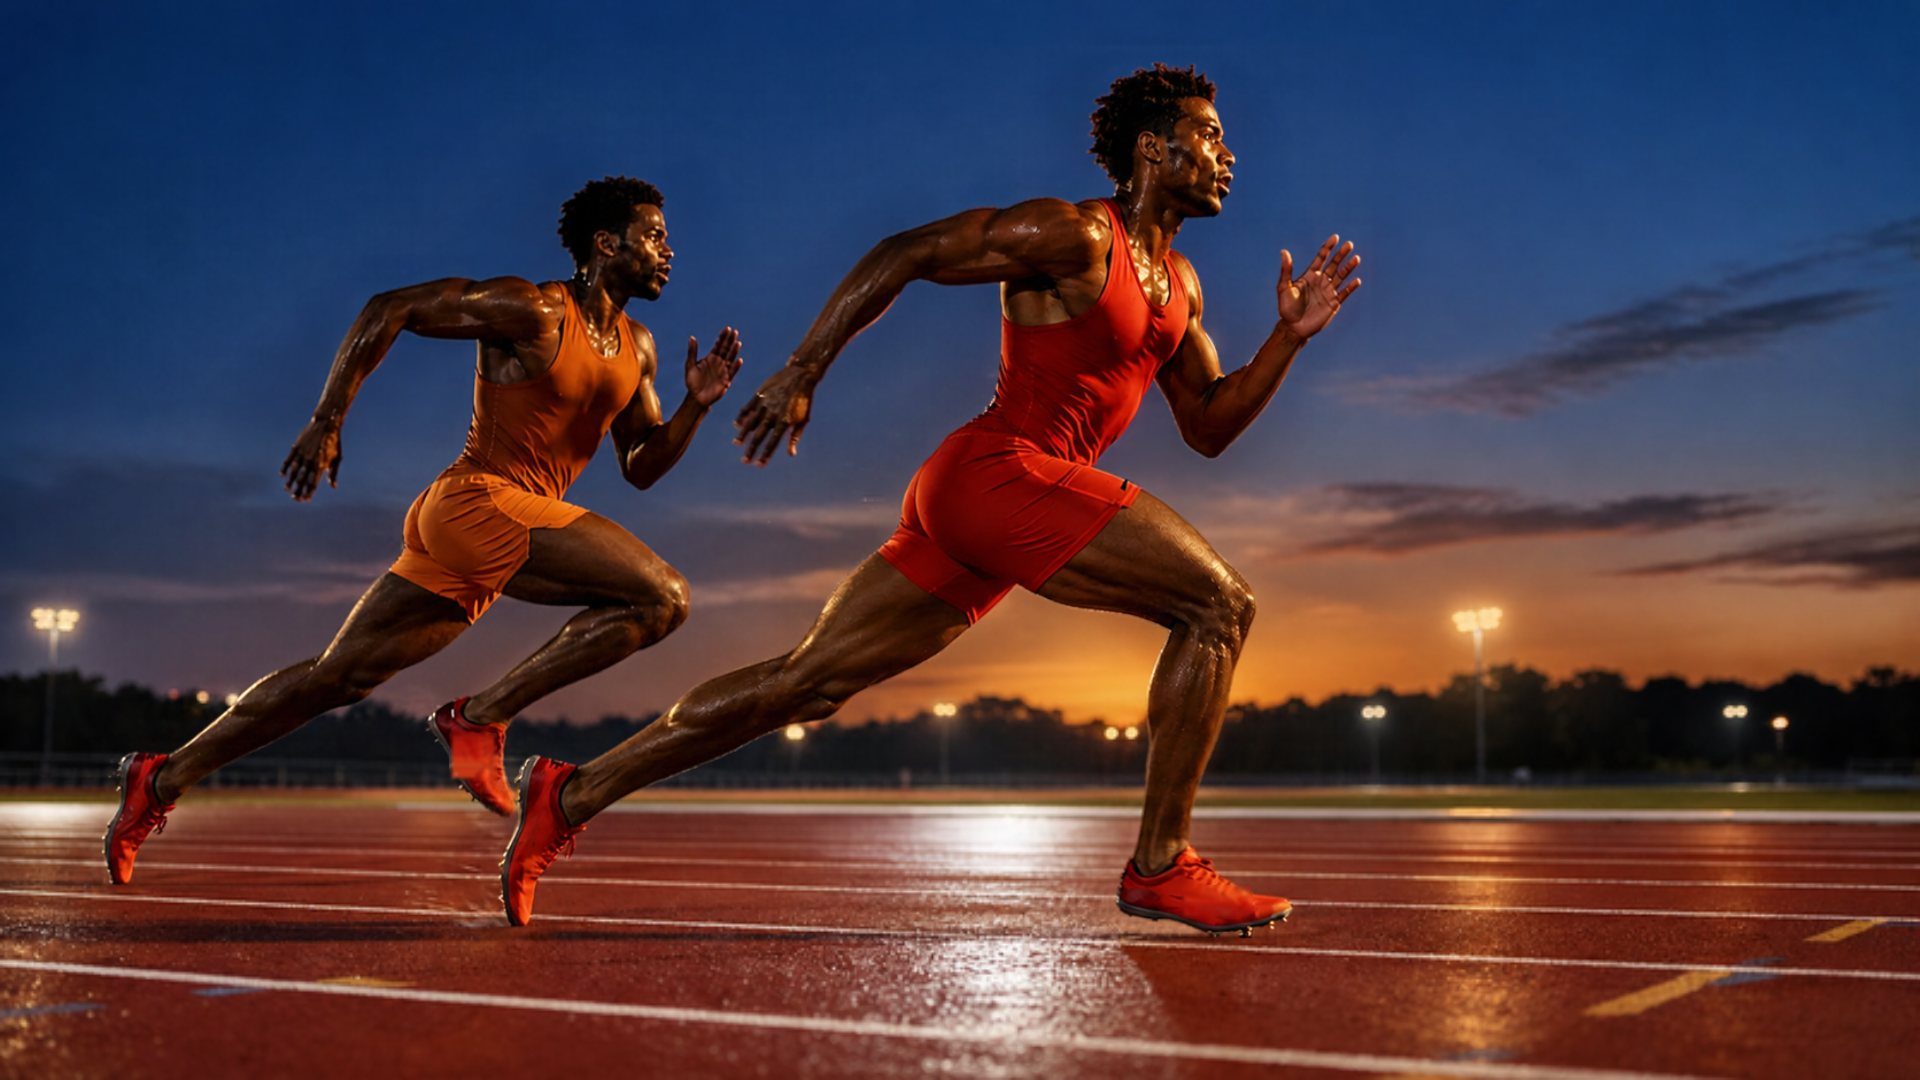
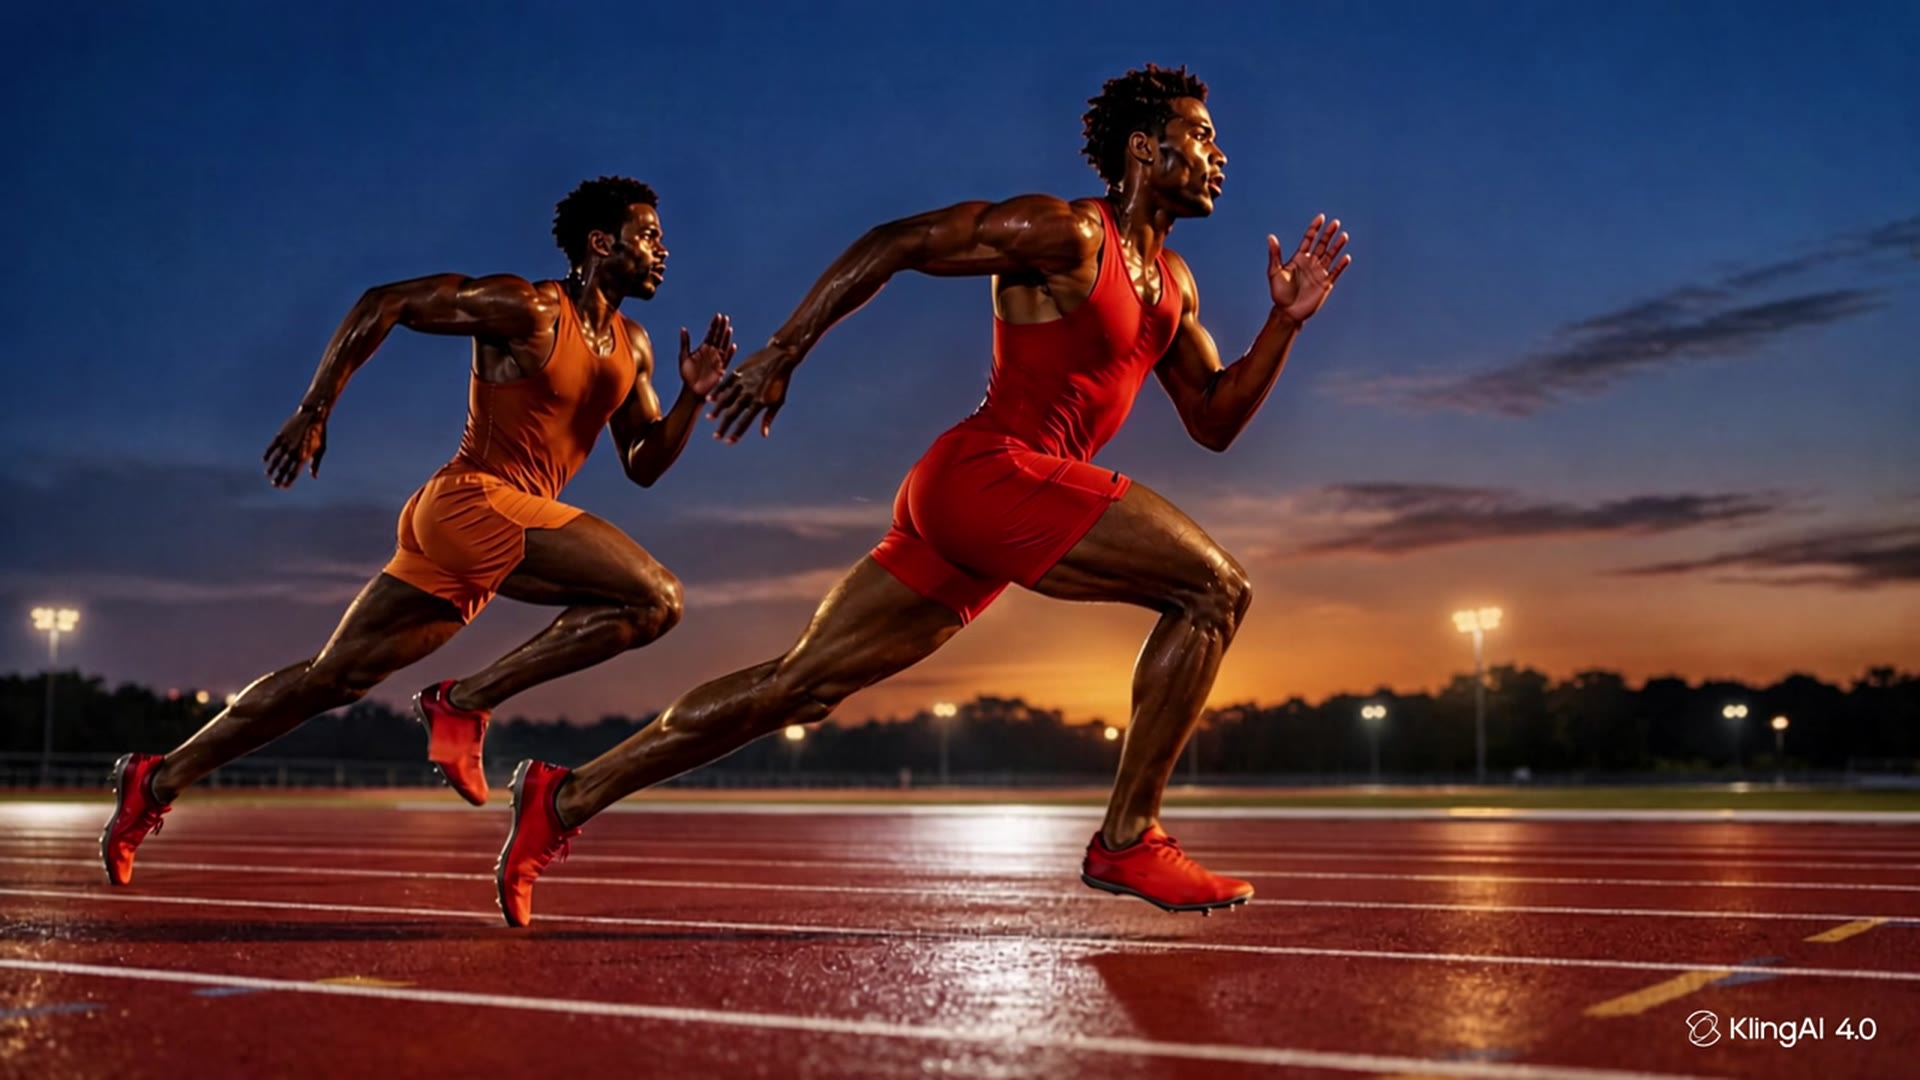
Hero: new Kling run-through clip with entrance and exit, closer framing on the runners

diff --git a/theme/assets/lx2.js b/theme/assets/lx2.js
@@ -496,6 +496,7 @@
       lastDraw = now;
       var ca = w / h, ia = (hv.videoWidth || 16) / (hv.videoHeight || 9);
       var sx = ca > ia ? 1 : ca / ia, sy = ca > ia ? ia / ca : 1;
+      var Z = small ? 1.1 : 1.28; sx /= Z; sy /= Z; // move in closer to the runners
       var next = 1 - cur;
       // pass 1: echo into the other target
       bind(progs.echo);
@@ -504,7 +505,7 @@
       gl.activeTexture(gl.TEXTURE0); gl.bindTexture(gl.TEXTURE_2D, vtex); gl.uniform1i(progs.echo.u.vid, 0);
       gl.activeTexture(gl.TEXTURE1); gl.bindTexture(gl.TEXTURE_2D, ptex[cur]); gl.uniform1i(progs.echo.u.prev, 1);
       gl.uniform2f(progs.echo.u.cov, sx, sy);
-      gl.uniform2f(progs.echo.u.opos, small ? 0.2 : 0.2, 0);
+      gl.uniform2f(progs.echo.u.opos, small ? 0.3 : 0.25, small ? 0.3 : 0.4);
       var f = dt * 60;
       var k = first ? [0, 0, 0] : [Math.pow(KEEP[0], f), Math.pow(KEEP[1], f), Math.pow(KEEP[2], f)];
       gl.uniform3f(progs.echo.u.keep, k[0], k[1], k[2]);

diff --git a/theme/assets/lx2.css b/theme/assets/lx2.css
@@ -645,3 +645,6 @@ html:not(.lx-scrolled) .lx-over-hero .lxh-ann { background: transparent; border-
 @media (prefers-reduced-motion: reduce) { .lx-hero__bg > canvas.lx-hero__drag { display: none; } }
 
 @media (min-width: 750px) { .lx-hero__bg > video { object-position: 20% 0%; } }
+
+/* hero: closer framing on the runners (fallback video / still; the WebGL canvas zooms inside the shader) */
+@media (min-width: 750px) { .lx-hero__bg > img, .lx-hero__bg > video { scale: 1.3; transform-origin: 18% 35%; } }

diff --git a/tools/build_templates.py b/tools/build_templates.py
@@ -115,7 +115,7 @@ footer.dump('sections/footer-group.json', OrderedDict(type='footer', name='Foote
 # --------------------------------------------------------------------------- home
 home = Template()
 home.add('hero', 'lx2-hero', {
-    'bg_asset': 'lx2-hero-runners.jpg', 'bg_video': 'https://cdn.shopify.com/videos/c/vp/fc010fb123554258b72946dd01256d3f/fc010fb123554258b72946dd01256d3f.HD-720p-1.6Mbps-102025583.mp4', 'aura': 0,
+    'bg_asset': 'lx2-hero-runners.jpg', 'bg_video': 'https://cdn.shopify.com/videos/c/vp/ed2070c336b1404286be9215aabbc97c/ed2070c336b1404286be9215aabbc97c.HD-720p-2.1Mbps-102026374.mp4', 'aura': 0,
     'eyebrow': 'LORINX · התאוששות, כושר, ספורט',
     'heading': 'כל אימון\nנגמר ברגע\nשל שחרור.',
     'text': 'מכשירי התאוששות לבית: לפני האימון, אחריו, ובסוף יום ארוך.',
